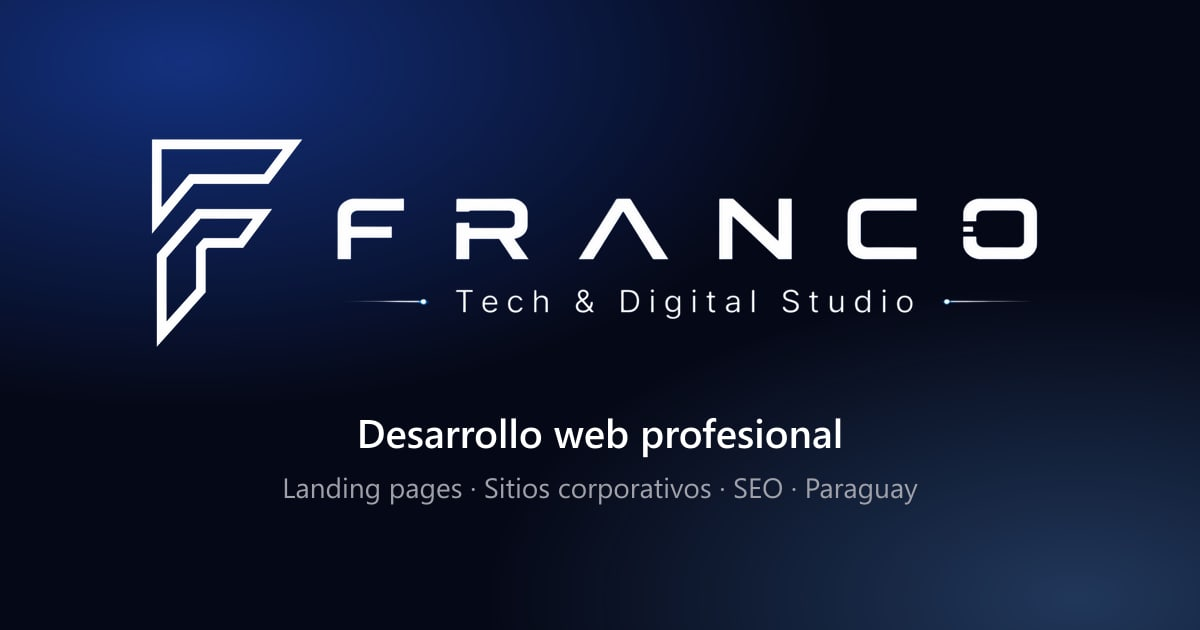
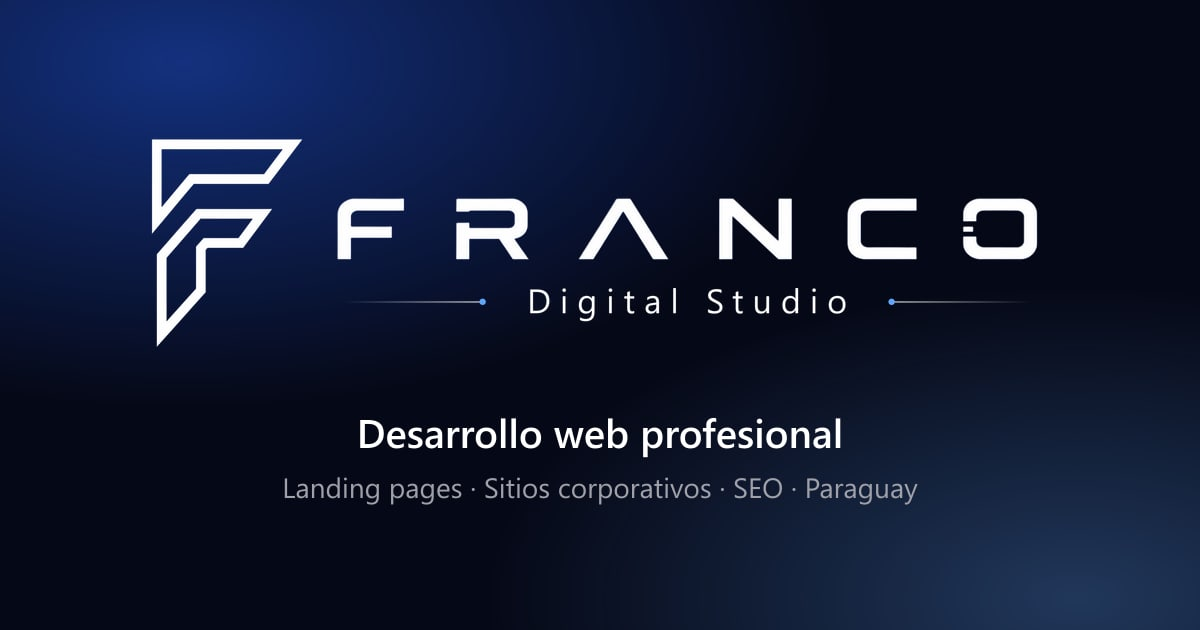
chore: dominio francodigitalstudio.com y marca "Digital Studio" en la imagen OG
- francodigital.com pertenece a un tercero: canonical, Open Graph, JSON-LD,
  sitemap, robots, email, netlify.toml y docs pasan a francodigitalstudio.com
- og-image: se reemplaza "Tech & Digital Studio" del logo por "Digital Studio"

Changed region(s): [[0.3083, 0.4524, 0.8325, 0.5127]]

diff --git a/frontend/index.html b/frontend/index.html
@@ -15,16 +15,16 @@
     <meta name="author" content="FRANCO — Digital Studio">
     <meta name="robots" content="index, follow">
     <meta name="theme-color" content="#050816">
-    <link rel="canonical" href="https://francodigital.com/">
+    <link rel="canonical" href="https://francodigitalstudio.com/">
 
     <!-- Open Graph -->
     <meta property="og:type" content="website">
     <meta property="og:site_name" content="FRANCO — Digital Studio">
     <meta property="og:title" content="FRANCO — Digital Studio | Desarrollo web profesional">
     <meta property="og:description" content="Estudio de desarrollo web en Paraguay. Sitios rápidos, modernos y optimizados para generar confianza y atraer clientes.">
-    <meta property="og:url" content="https://francodigital.com/">
+    <meta property="og:url" content="https://francodigitalstudio.com/">
     <meta property="og:locale" content="es_PY">
-    <meta property="og:image" content="https://francodigital.com/assets/og-image.jpg">
+    <meta property="og:image" content="https://francodigitalstudio.com/assets/og-image.jpg">
     <meta property="og:image:width" content="1200">
     <meta property="og:image:height" content="630">
     <meta property="og:image:alt" content="FRANCO — Digital Studio: desarrollo web profesional en Paraguay">
@@ -33,7 +33,7 @@
     <meta name="twitter:card" content="summary_large_image">
     <meta name="twitter:title" content="FRANCO — Digital Studio | Desarrollo web profesional">
     <meta name="twitter:description" content="Estudio de desarrollo web en Paraguay. Sitios rápidos, modernos y optimizados.">
-    <meta name="twitter:image" content="https://francodigital.com/assets/og-image.jpg">
+    <meta name="twitter:image" content="https://francodigitalstudio.com/assets/og-image.jpg">
 
     <!-- Favicon -->
     <link rel="icon" href="favicon.svg" type="image/svg+xml">
@@ -47,10 +47,10 @@
       "@type": "ProfessionalService",
       "name": "FRANCO — Digital Studio",
       "description": "Estudio de desarrollo web y soluciones digitales: landing pages, sitios corporativos, desarrollo full stack, integraciones y SEO técnico.",
-      "url": "https://francodigital.com/",
-      "logo": "https://francodigital.com/assets/logos/F_Blanco_sin_Fondo_sin_sombra.png",
-      "image": "https://francodigital.com/assets/og-image.jpg",
-      "email": "soporte@francodigital.com",
+      "url": "https://francodigitalstudio.com/",
+      "logo": "https://francodigitalstudio.com/assets/logos/F_Blanco_sin_Fondo_sin_sombra.png",
+      "image": "https://francodigitalstudio.com/assets/og-image.jpg",
+      "email": "soporte@francodigitalstudio.com",
       "telephone": "+595972584557",
       "areaServed": "PY",
       "founder": {
@@ -1205,7 +1205,7 @@
                                     <span>Email</span>
 
                                     <h4>
-                                        <a href="mailto:soporte@francodigital.com">soporte@francodigital.com</a>
+                                        <a href="mailto:soporte@francodigitalstudio.com">soporte@francodigitalstudio.com</a>
                                     </h4>
 
                                 </div>
@@ -1330,7 +1330,7 @@
 
                         <ul>
                             <li>
-                                <a href="mailto:soporte@francodigital.com">soporte@francodigital.com</a>
+                                <a href="mailto:soporte@francodigitalstudio.com">soporte@francodigitalstudio.com</a>
                             </li>
                             <li>
                                 <a href="https://wa.me/595972584557?text=Hola%2C%20quiero%20iniciar%20un%20proyecto%20con%20FRANCO"

diff --git a/docs/DEPLOY.md b/docs/DEPLOY.md
@@ -18,7 +18,7 @@ Elegí una:
    - **Build command:** `npm run build`
    - **Build output directory:** `frontend`
 4. Deploy. Cloudflare lee `frontend/_headers` automáticamente.
-5. **Custom domains** → agregá `francodigital.com` y `www.francodigital.com`.
+5. **Custom domains** → agregá `francodigitalstudio.com` y `www.francodigitalstudio.com`.
 
 ---
 
@@ -46,7 +46,7 @@ Alternativa sin Git: `npm run build` y arrastrá la carpeta `frontend/` a
 
 ## Después de publicar
 
-- Actualizá si hace falta las URLs absolutas que apuntan a `https://francodigital.com/`:
+- Actualizá si hace falta las URLs absolutas que apuntan a `https://francodigitalstudio.com/`:
   - `frontend/index.html` (canonical, Open Graph, Twitter, JSON-LD)
   - `frontend/sitemap.xml`
   - `frontend/robots.txt`

diff --git a/docs/README.md b/docs/README.md
@@ -56,7 +56,7 @@ tocar cualquier archivo de `css/` o `js/` hay que correr `npm run build`**
 
 ## Contacto
 
-- Email: soporte@francodigital.com
+- Email: soporte@francodigitalstudio.com
 - WhatsApp: +595 972 584 557
 
 ---
